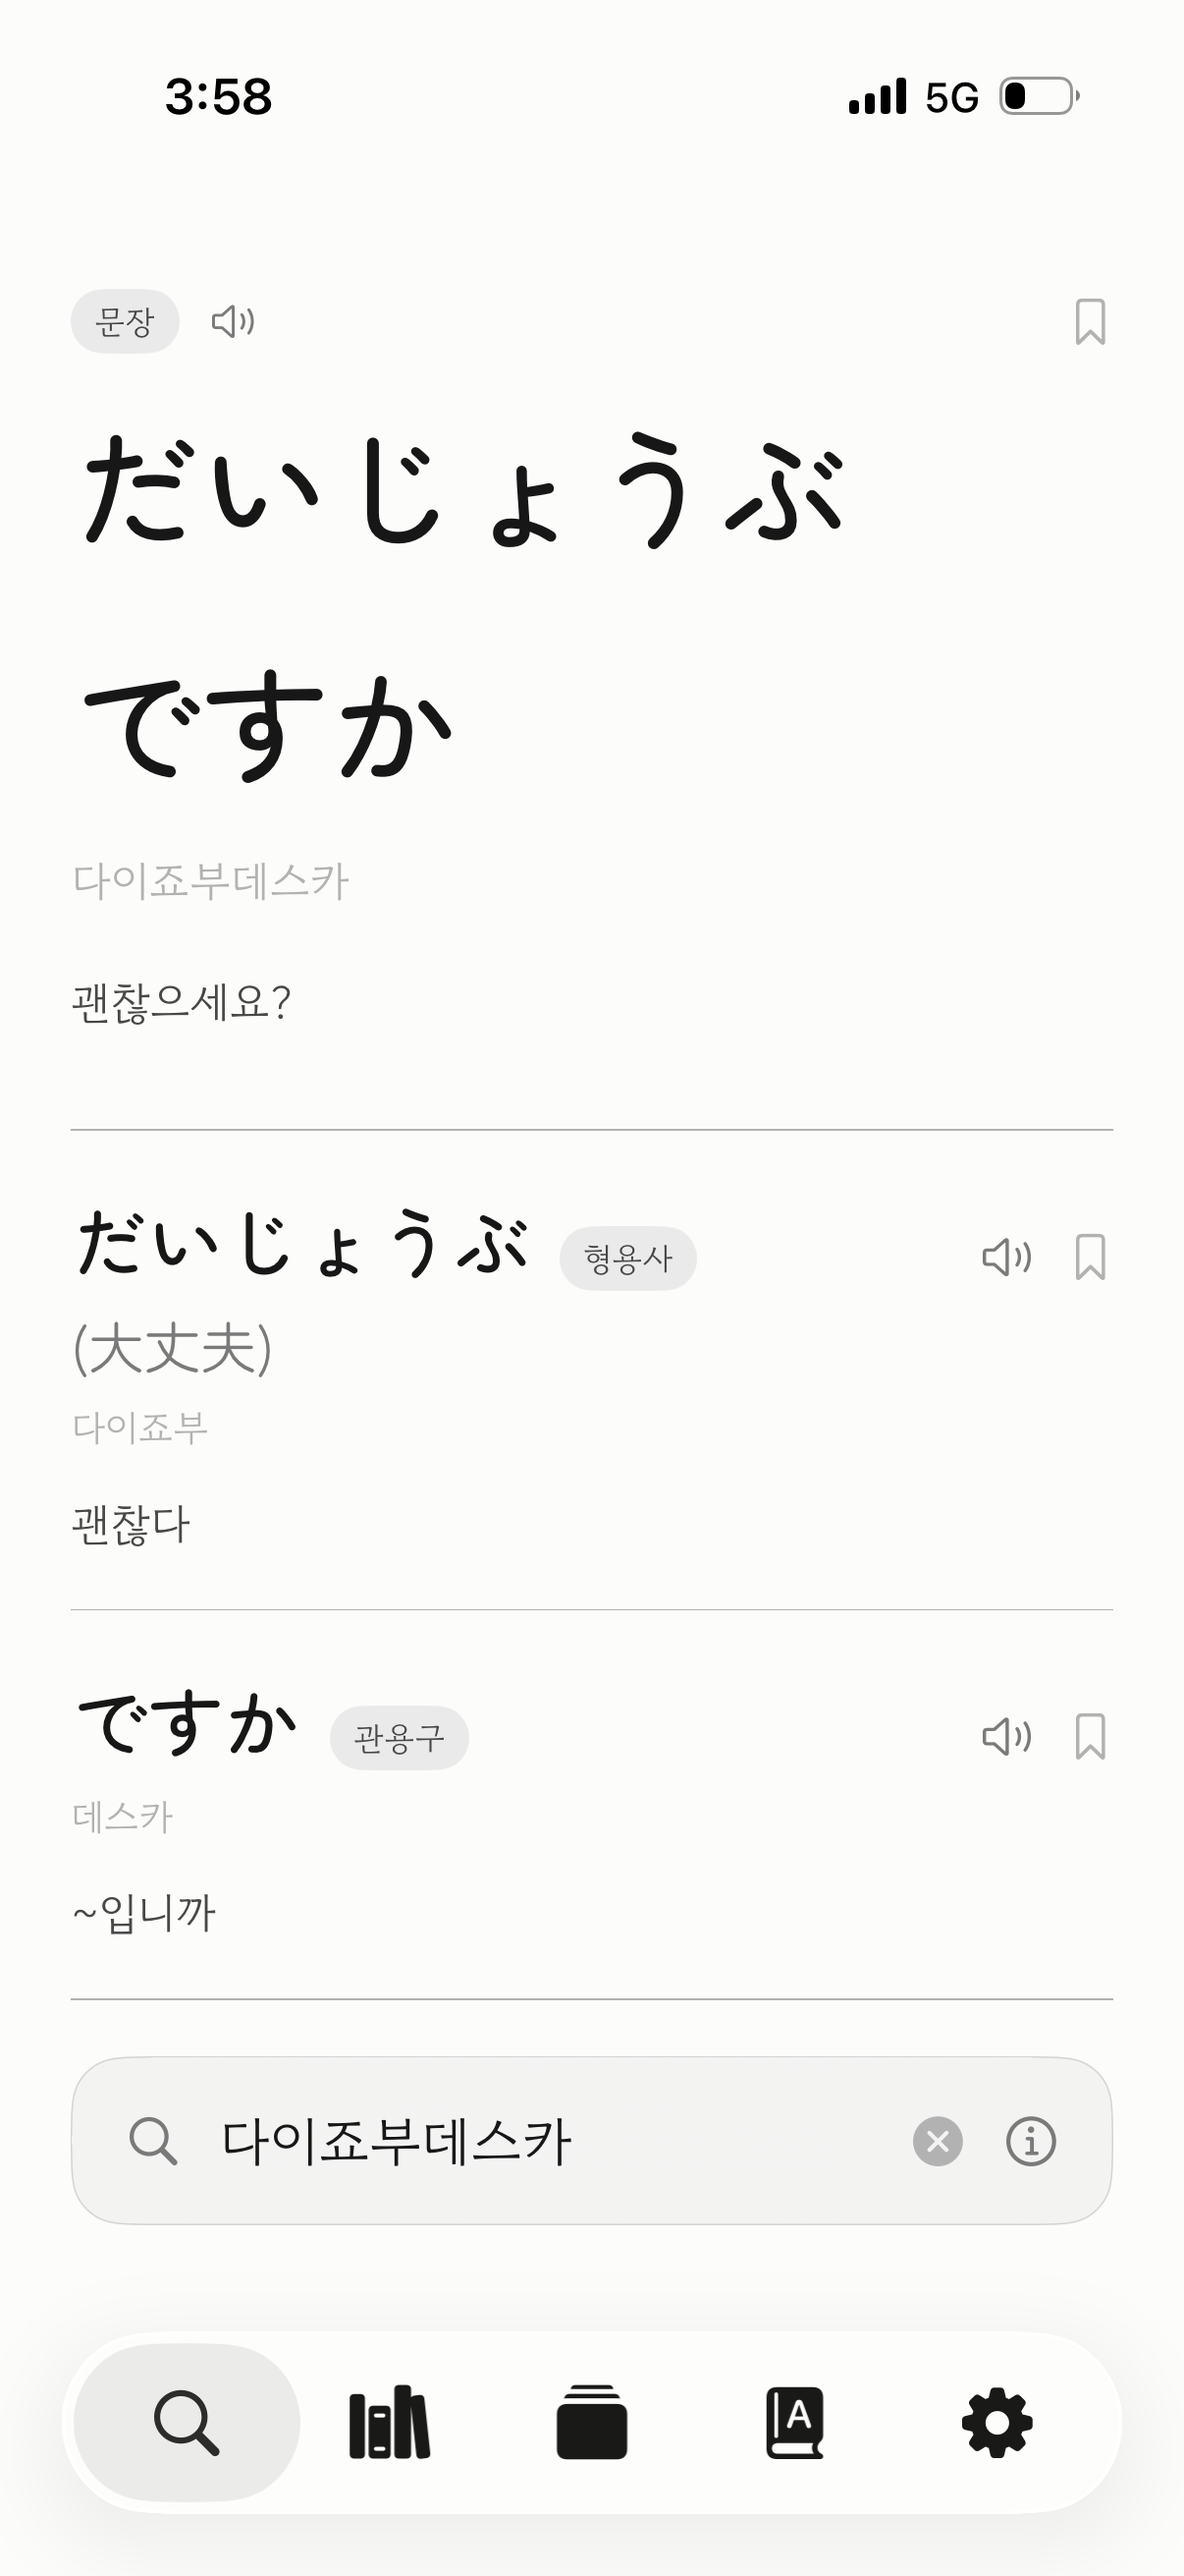
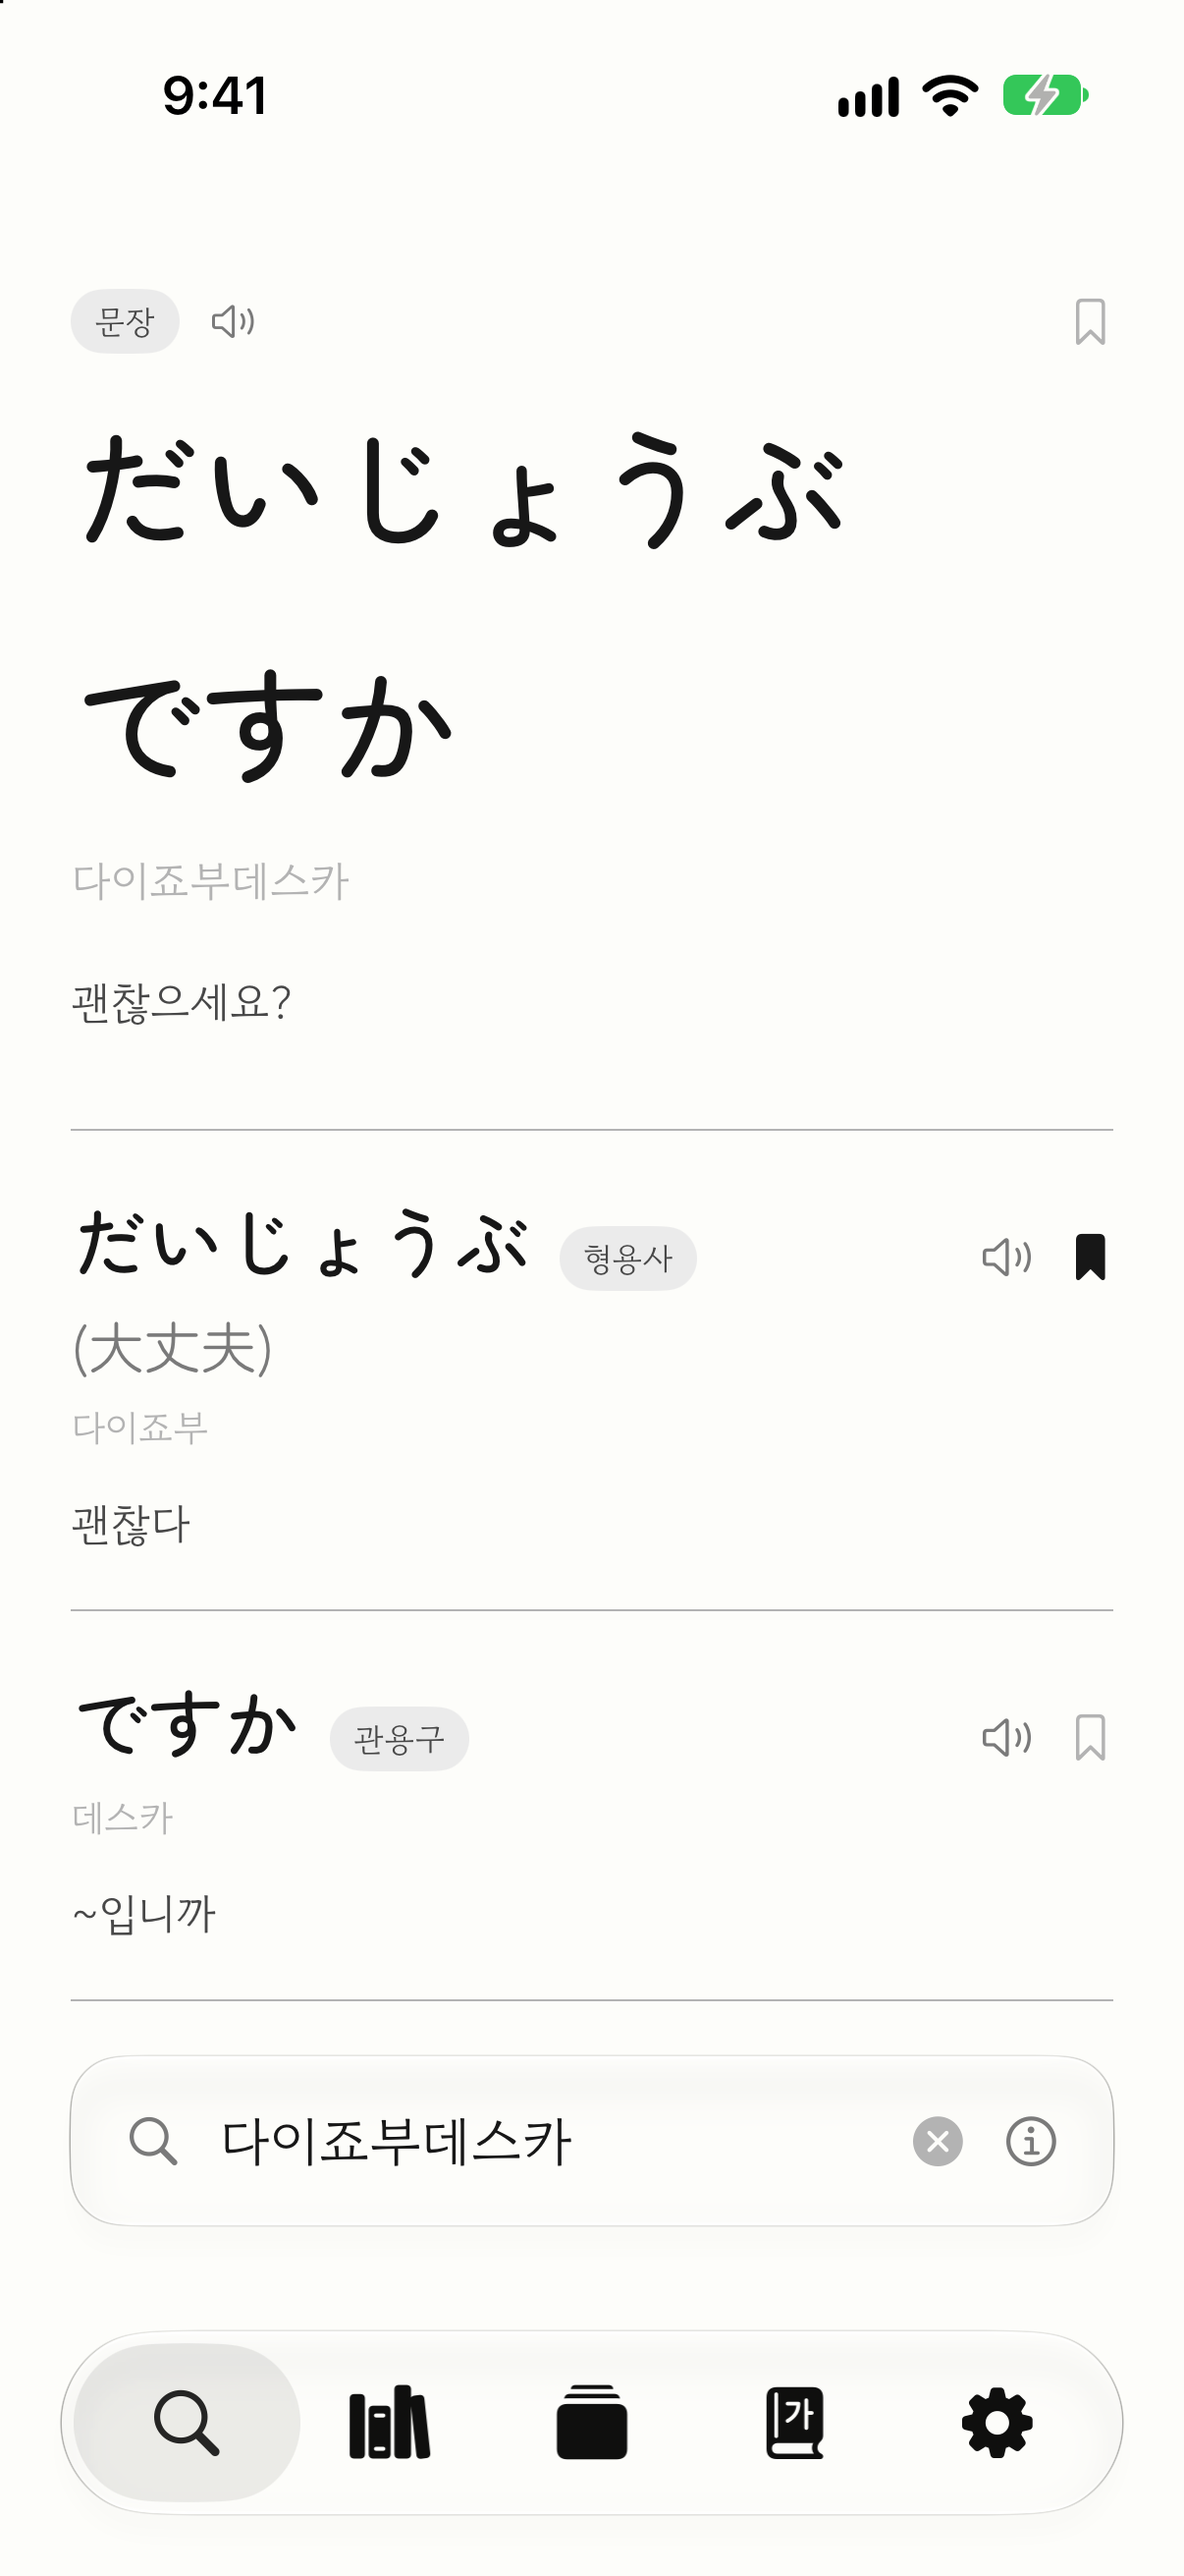
docs: 스토어 스크린샷을 한 벌로 다시 찍고 1.2 를 심사에 낸다
1.1 스크린샷 여섯 장 중 문장 화면 한 장만 실기기에서 찍혀 상단 막대(시각 · 통신사 · 배터리)가 달랐다. 시뮬레이터에는 일→한 언어팩이 없어 문장 뜻 줄이 「옮겨 드릴 수 없어요」로 나오기 때문이었다. 책장 묶음 이름도 특정 작품명이었다. 여섯 장을 같은 시뮬레이터(iPhone 17, 1206×2622) · 같은 상단 막대(9:41)로 다시 찍고, 입력은 누구나 아는 말로 맞췄다.

- Translations.swift: `--meaning=원문=뜻` 실행 인자로 문장 뜻을 이미 옮긴 것처럼 넣는다. `--query` · `--collect` 와 같은 화면 확인용 갈래다. 넣은 말 「괜찮으세요?」는 실기기에서 大丈夫ですか 가 실제로 옮겨진 것이다
- docs/screenshots/*.png: 찾기(아리가토) · 문장(다이죠부데스카) · 책장(자주 듣는 말: ありがとう · だいじょうぶ · すごい · かわいい · がんばれ · やめる) · 연습(ありがとう) · 글자 · 받아쓰기(아리가토 → 이렇게 쳐도 찾아져요)

App Store Connect 에 1.2 판을 만들어 빌드 12 를 붙이고, 새로운 기능 문구와 이 여섯 장을 올린 뒤 심사에 냈다(WAITING_FOR_REVIEW, 승인되면 자동 출시). 1.1 판의 스크린샷은 건드리지 않았다. README 의 움직이는 그림(gif)은 그대로다.

대상 판: 1.2
Closes #28

Changed region(s): [[0.7056, 0.0309, 0.9204, 0.0618], [0.1534, 0.0309, 0.2454, 0.0618], [0.8897, 0.4634, 0.9511, 0.4943]]

diff --git a/MworagoApp/Store/Translations.swift b/MworagoApp/Store/Translations.swift
@@ -81,4 +81,16 @@ final class TranslationDesk {
     /// 뜻은 미리 구워서 싣지만 22,610 개까지가 지금 자리고, 나머지는 영어로 남아 있다.
     /// 굽기가 닿지 않은 낱말을 화면에서 만난 그 자리에서 메운다.
     let english = Translations()
+
+    /// `--meaning=大丈夫ですか=괜찮으세요?` 로 그 문장의 뜻을 이미 옮긴 것처럼 넣어 둔다.
+    ///
+    /// **시뮬레이터에는 일→한 언어팩이 없다.** 문장 뜻 줄이 언제나 「옮겨 드릴 수 없어요」로
+    /// 나와, 스토어 스크린샷을 찍으려면 실기기를 써야 했다 — 그러면 그 한 장만 상단 막대
+    /// (시각 · 통신사 · 배터리)가 달라진다. 넣는 말은 실기기에서 같은 문장이 실제로
+    /// 옮겨진 것을 쓴다. `--query` · `--collect` 와 같은 갈래다.
+    init() {
+        guard let seed = LaunchOptions.current.value(for: "meaning"),
+              let mark = seed.firstIndex(of: "=") else { return }
+        japanese.receive([(source: String(seed[..<mark]), target: String(seed[seed.index(after: mark)...]))])
+    }
 }
